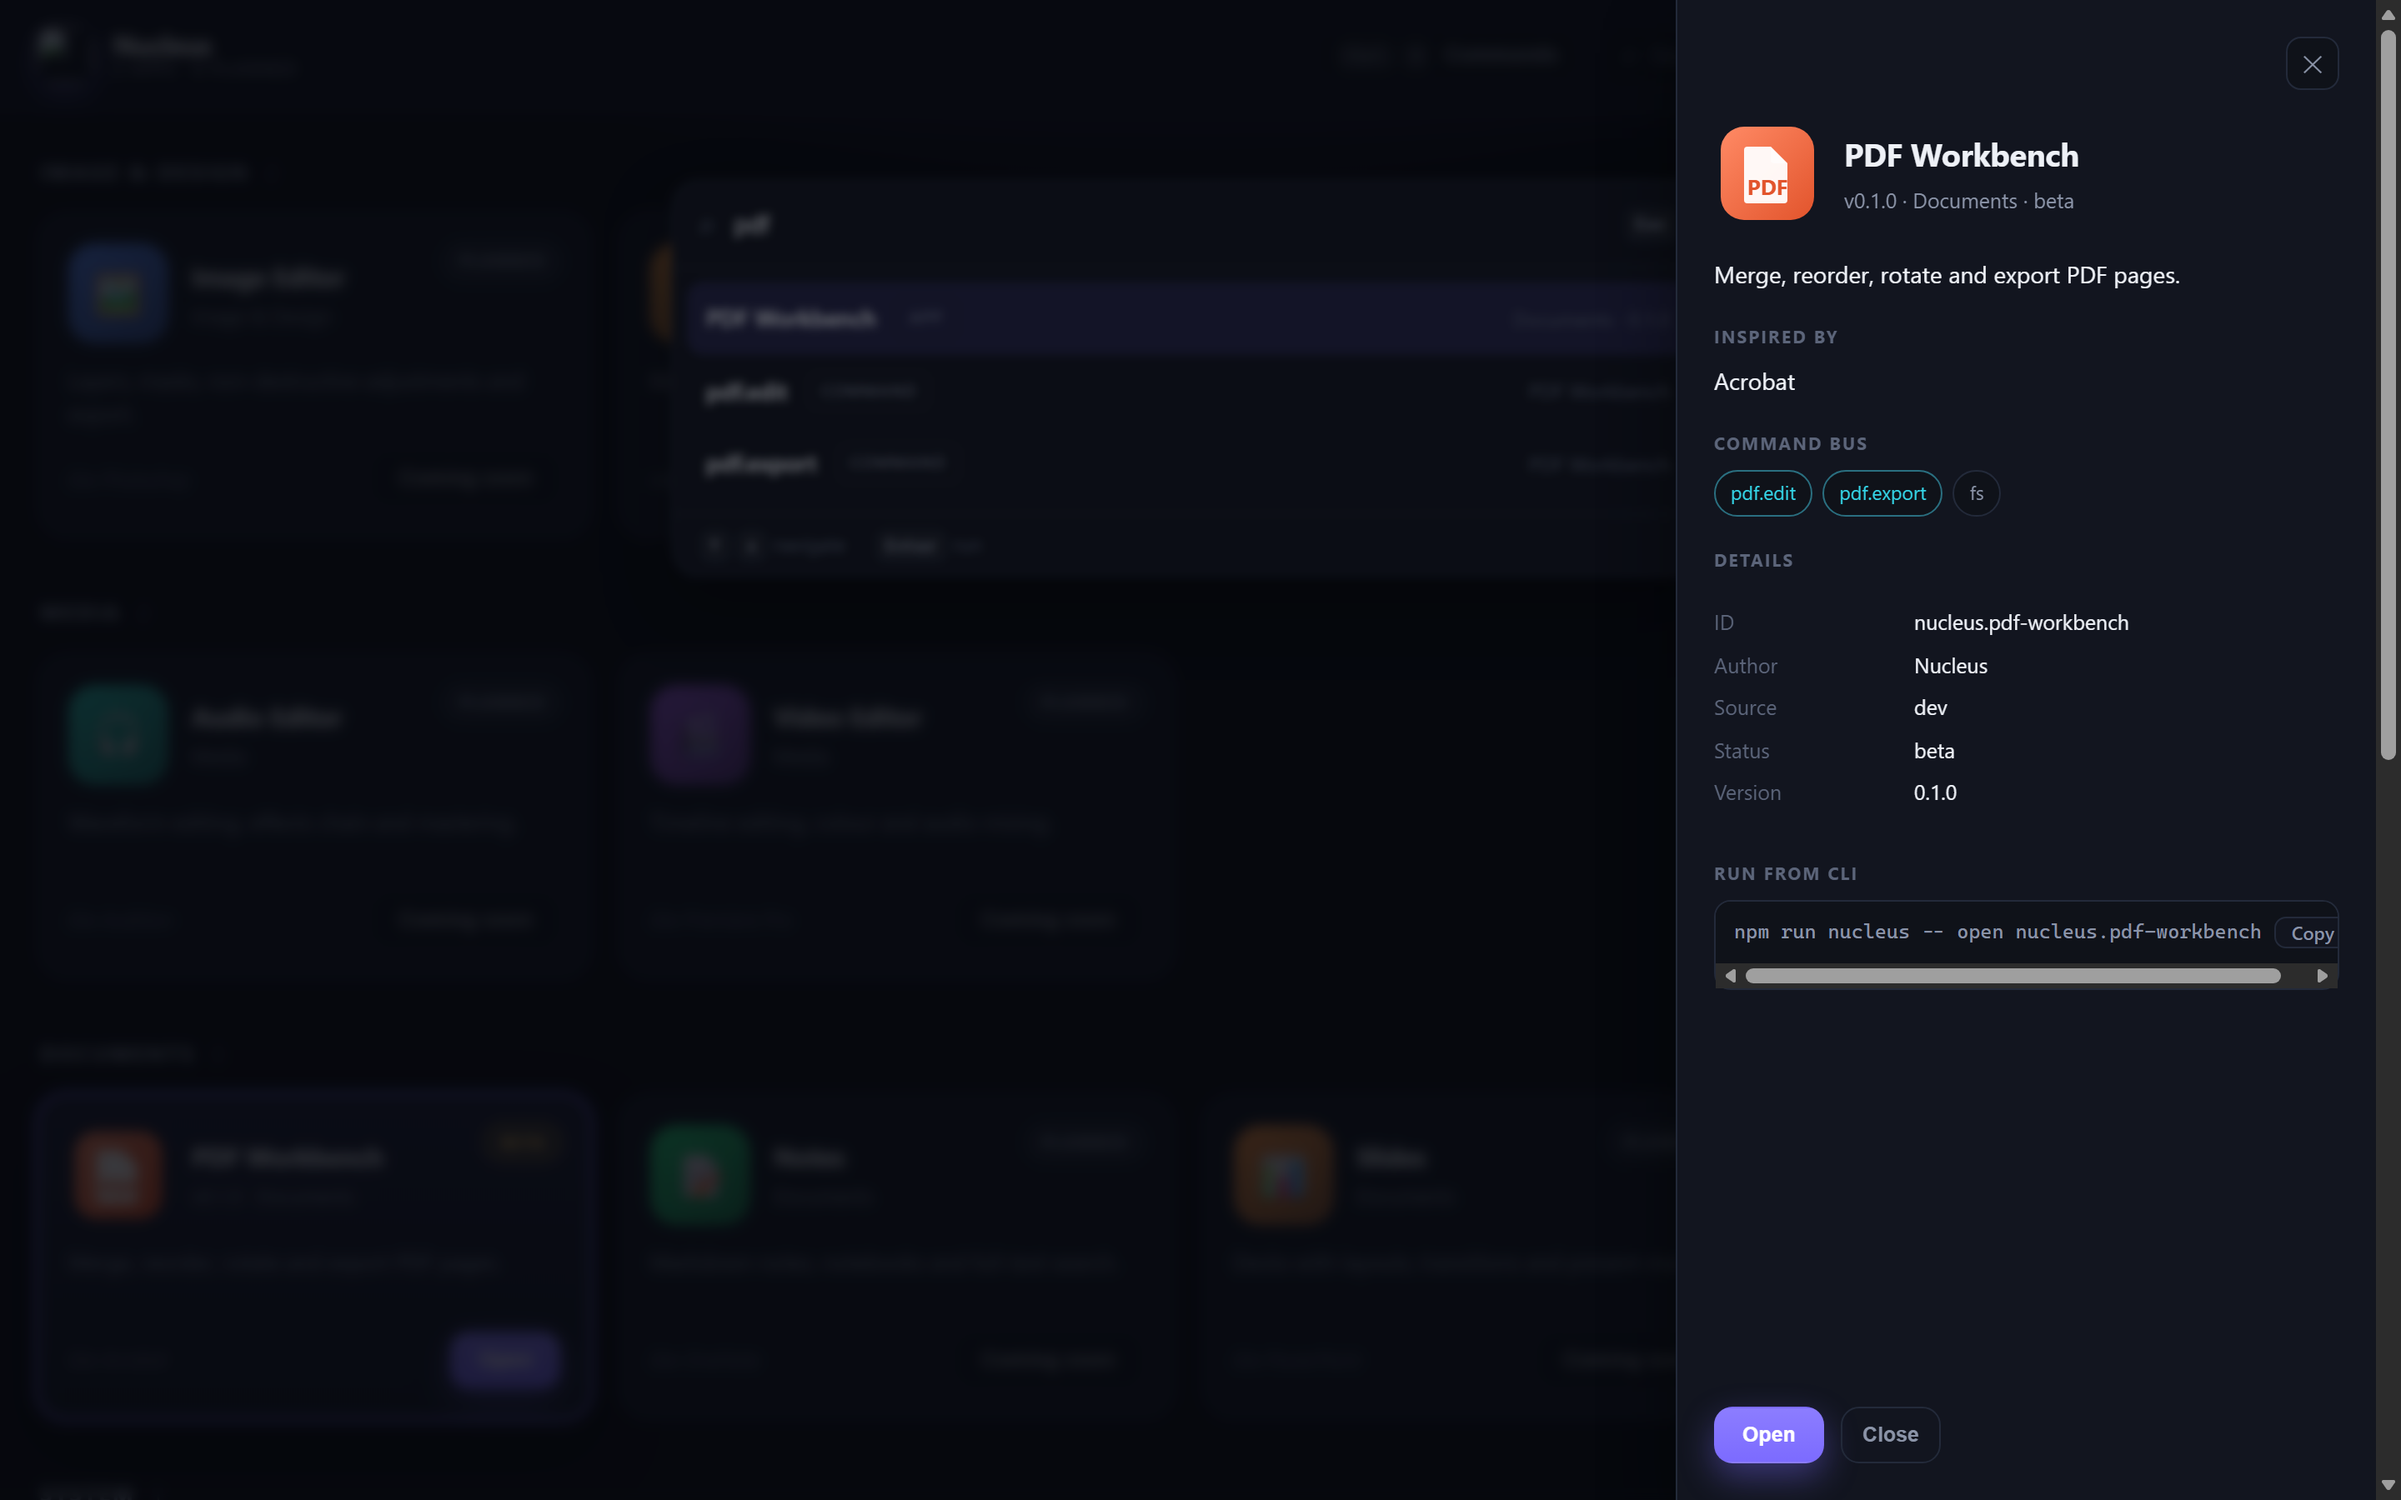
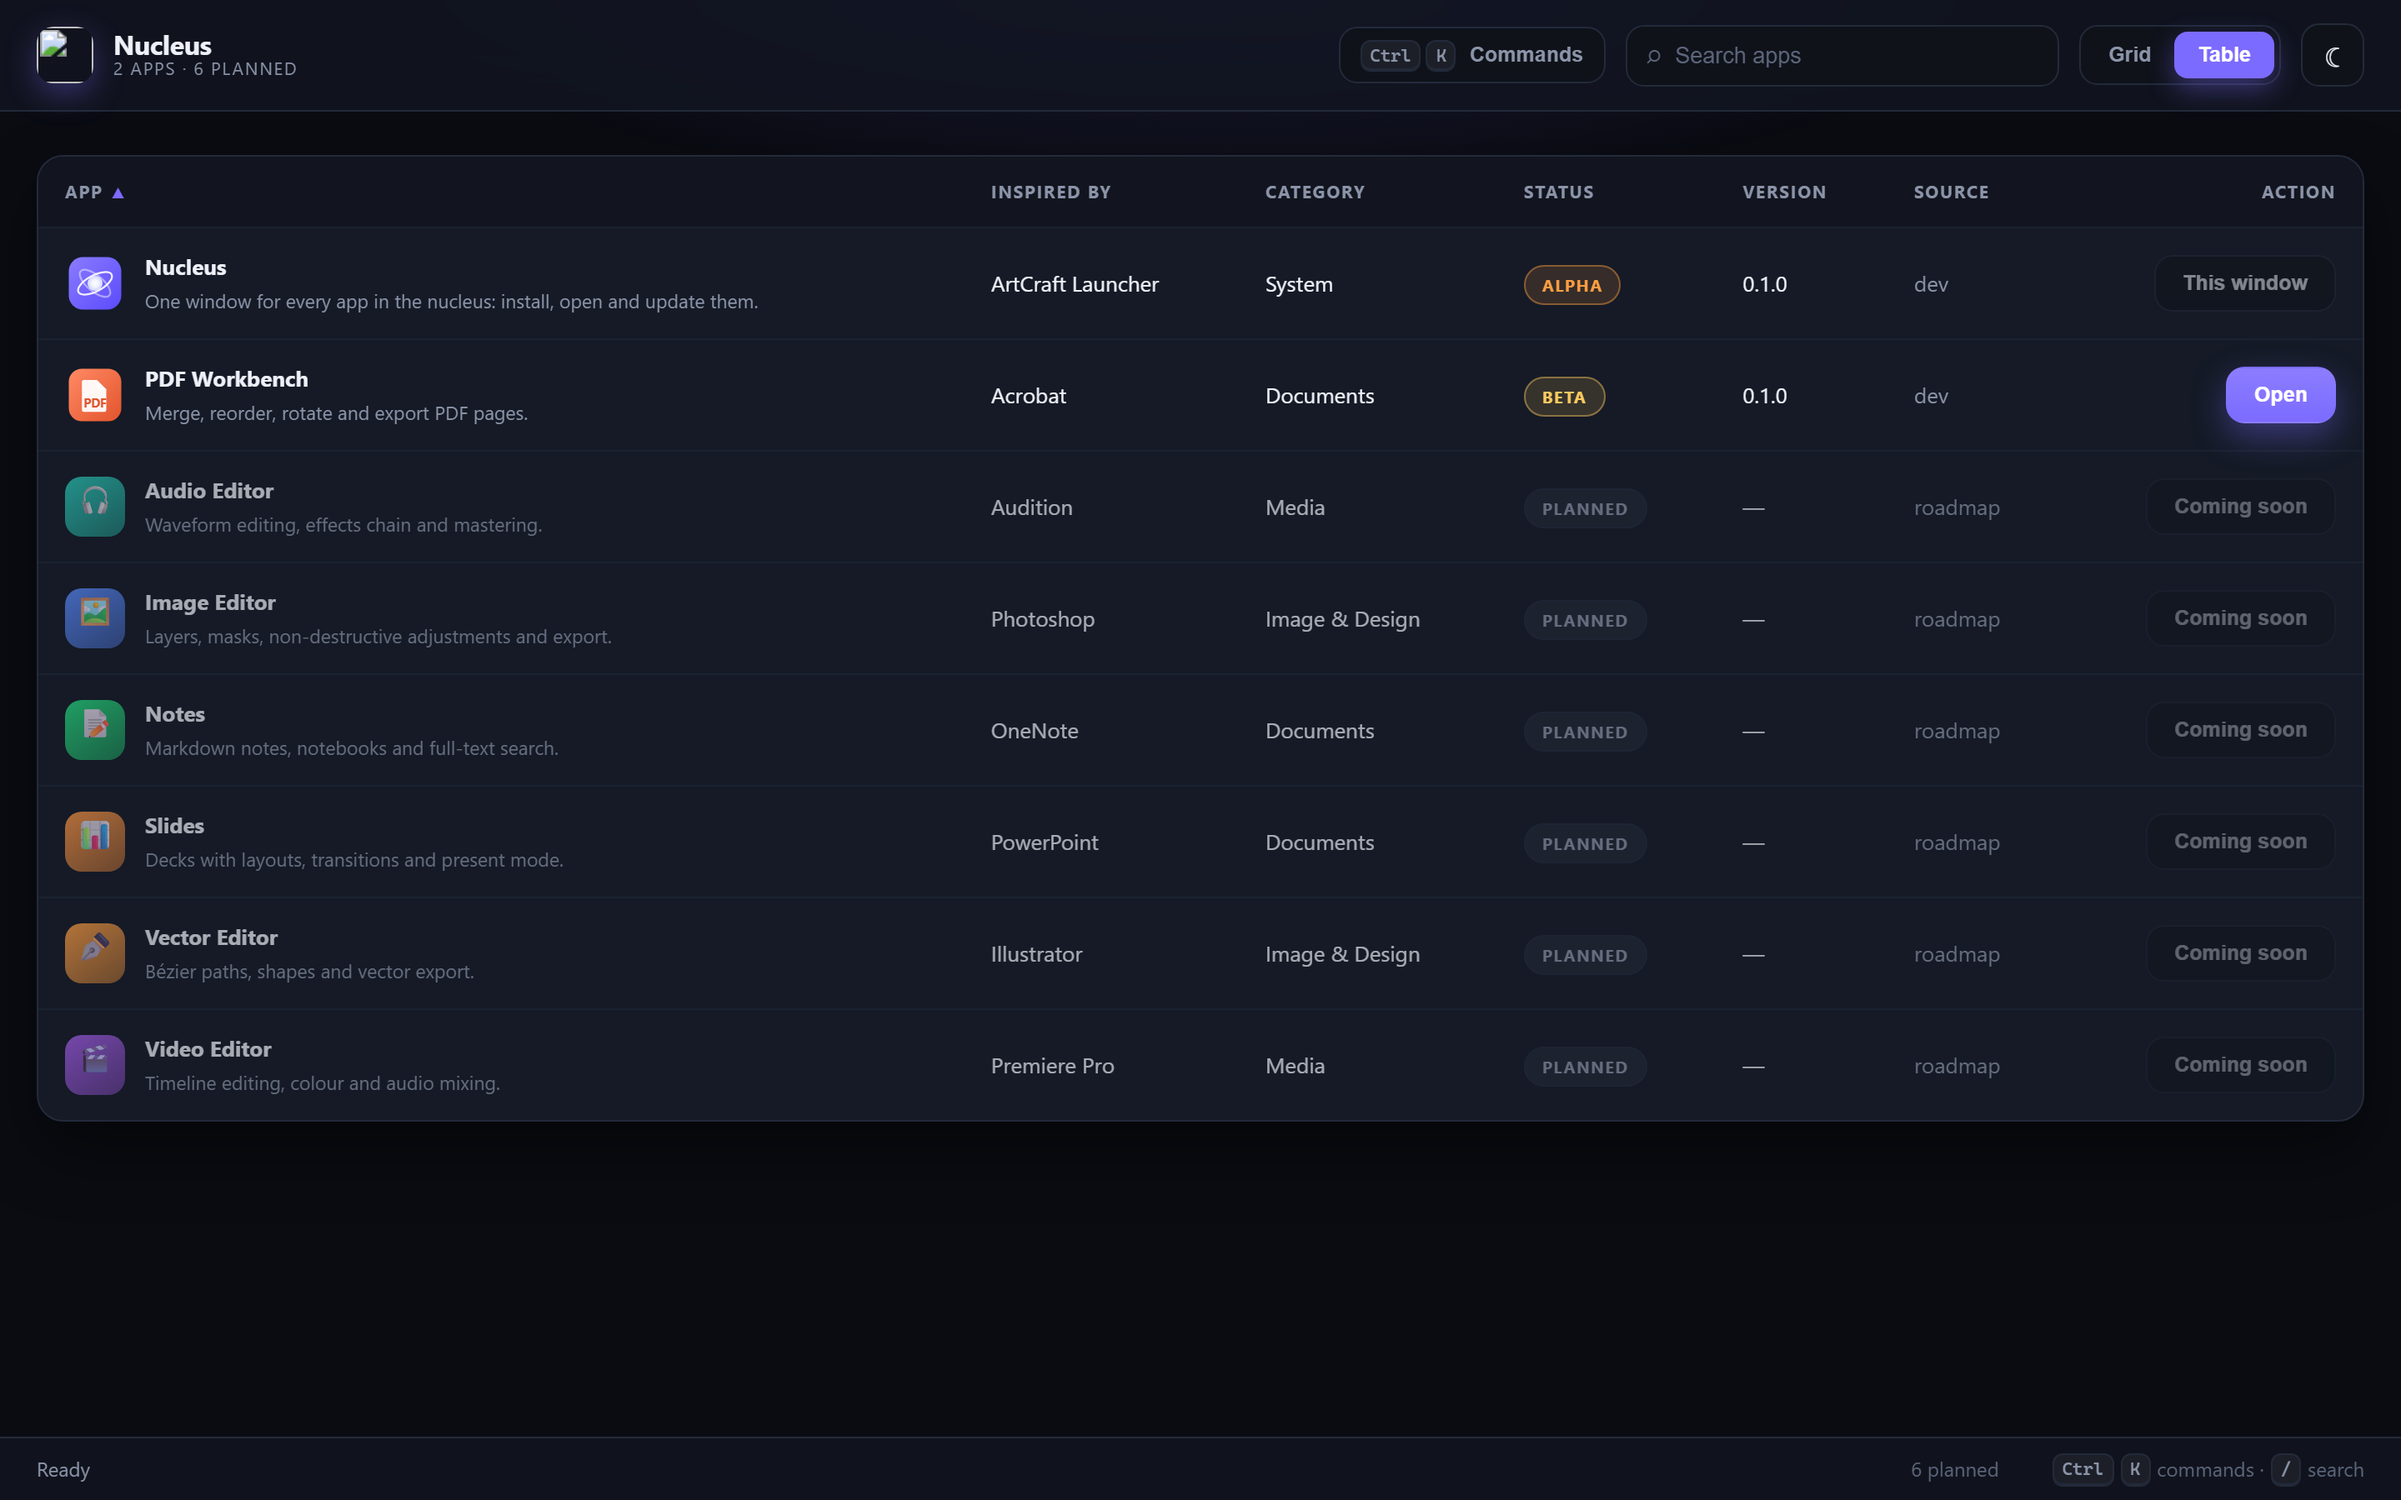
Fix launcher overlays blocking all clicks: hidden must beat display:flex

diff --git a/apps/launcher/src/server.ts b/apps/launcher/src/server.ts
@@ -206,7 +206,10 @@ async function serveStatic(res: ServerResponse, pathname: string): Promise<void>
   }
   try {
     const data = await readFile(target);
-    res.writeHead(200, { "content-type": MIME[extname(target)] ?? "application/octet-stream" });
+    res.writeHead(200, {
+      "content-type": MIME[extname(target)] ?? "application/octet-stream",
+      "cache-control": "no-cache",
+    });
     res.end(data);
   } catch {
     res.writeHead(404, { "content-type": "text/plain" });

diff --git a/apps/launcher/public/style.css b/apps/launcher/public/style.css
@@ -40,6 +40,11 @@
 
 * { box-sizing: border-box; }
 
+/* The `hidden` attribute must win over component `display` rules below
+   (e.g. `.overlay { display: flex }` would otherwise keep the palette/drawer
+   overlays visible and block the whole launcher). */
+[hidden] { display: none !important; }
+
 html, body { height: 100%; }
 
 body {
